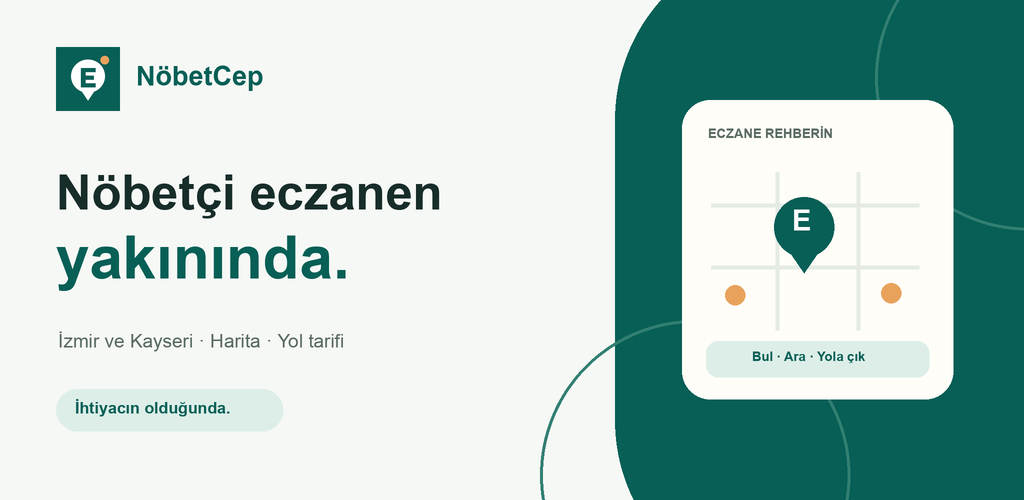
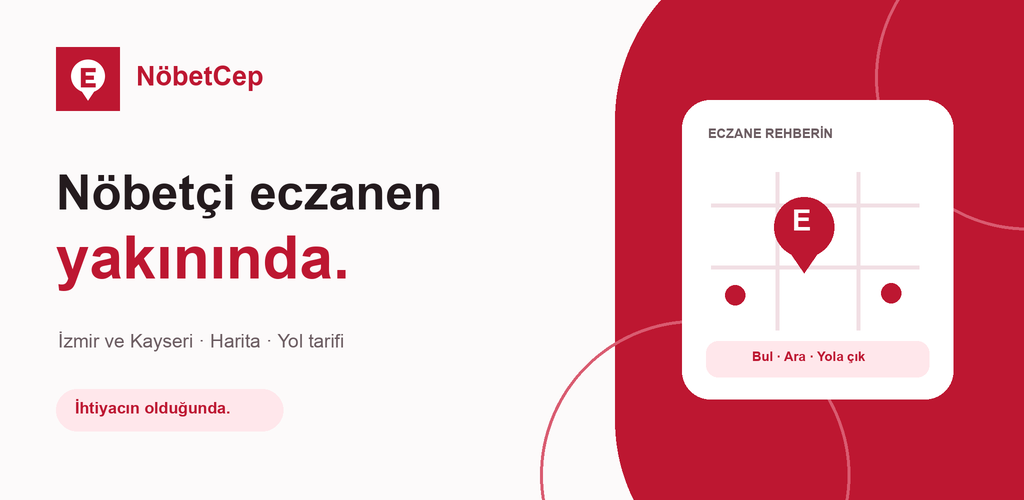
Align NobetCep public pages with pharmacy brand colors

diff --git a/public/nobetcep/index.html b/public/nobetcep/index.html
@@ -2,7 +2,17 @@
 <html lang="tr"><meta charset="utf-8"><meta name="viewport" content="width=device-width,initial-scale=1">
 <meta name="description" content="NöbetCep: İzmir ve Kayseri nöbetçi eczane listeleri, harita, telefon ve yol tarifi. Bağımsız Android rehberi.">
 <title>Nöbetçi Eczane - NöbetCep</title>
-<style>body{margin:0;background:#f6f8f5;color:#172d29;font:17px/1.7 system-ui,sans-serif}main{max-width:800px;margin:10vh auto;padding:32px}h1{font-size:clamp(36px,7vw,64px);line-height:1.1;letter-spacing:-2px}a{color:#075f56}.tag{font-size:13px;letter-spacing:2px;font-weight:800;color:#075f56}.box{background:white;padding:24px;border-radius:20px;border:1px solid #d8e1db;margin:24px 0}footer{font-size:13px;color:#596b63}</style>
+<meta name="theme-color" content="#bd1731">
+<link rel="canonical" href="https://ipekbayrak.com.tr/nobetcep/">
+<meta property="og:type" content="website">
+<meta property="og:title" content="Nöbetçi Eczane - NöbetCep">
+<meta property="og:description" content="İzmir ve Kayseri nöbetçi eczane rehberi. Harita, telefon ve yol tarifi.">
+<meta property="og:url" content="https://ipekbayrak.com.tr/nobetcep/">
+<meta property="og:image" content="https://ipekbayrak.com.tr/nobetcep/feature.png">
+<meta property="og:image:width" content="1024">
+<meta property="og:image:height" content="500">
+
+<style>body{margin:0;background:#fcfafa;color:#241b1e;font:17px/1.7 system-ui,sans-serif}main{max-width:800px;margin:10vh auto;padding:32px}h1{font-size:clamp(36px,7vw,64px);line-height:1.1;letter-spacing:-2px}a{color:#bd1731}.tag{font-size:13px;letter-spacing:2px;font-weight:800;color:#bd1731}.box{background:white;padding:24px;border-radius:20px;border:1px solid #e8dde0;margin:24px 0}footer{font-size:13px;color:#6c5d62}</style>
 <main><div class="tag">NÖBETCEP · ANDROID</div><h1>Nöbetçi eczanen<br>yakınında.</h1>
 <p>İzmir ve Kayseri’de nöbetçi eczaneleri bul, haritada gör, telefonla ara ve yol tarifi al.</p>
 <div class="box"><strong>Yayın hazırlığında.</strong><p>Uygulama içi liste İzmir ve Kayseri’yi kapsar. Diğer iller için <a href="https://www.turkiye.gov.tr/saglik-titck-nobetci-eczane-sorgulama">resmi nöbetçi eczane sorgusunu</a> kullanabilirsin. Nöbet ve adres bilgilerini gitmeden önce eczaneyi arayarak doğrula.</p></div>

diff --git a/public/nobetcep/privacy.html b/public/nobetcep/privacy.html
@@ -1,7 +1,7 @@
 <!doctype html>
 <html lang="tr"><meta charset="utf-8"><meta name="viewport" content="width=device-width,initial-scale=1">
 <meta name="robots" content="noindex"><title>NöbetCep — Gizlilik politikası</title>
-<style>body{margin:0;background:#f6f8f5;color:#172d29;font:17px/1.7 system-ui,sans-serif}main{max-width:740px;margin:auto;padding:48px 24px}a{color:#075f56}h1{line-height:1.15}.brand{color:#075f56;font-weight:800}footer{border-top:1px solid #d8e1db;margin-top:32px;padding-top:20px}</style>
+<style>body{margin:0;background:#fcfafa;color:#241b1e;font:17px/1.7 system-ui,sans-serif}main{max-width:740px;margin:auto;padding:48px 24px}a{color:#bd1731}h1{line-height:1.15}.brand{color:#bd1731;font-weight:800}footer{border-top:1px solid #e8dde0;margin-top:32px;padding-top:20px}</style>
 <main><a class="brand" href="./">NöbetCep</a><h1>Gizlilik politikası</h1>
 <p><strong>Yayıncı:</strong> ipekbayrak<br><strong>İletişim:</strong> mustafaipekbayrak@gmail.com</p>
 <p>NöbetCep — Gizlilik bilgisi
